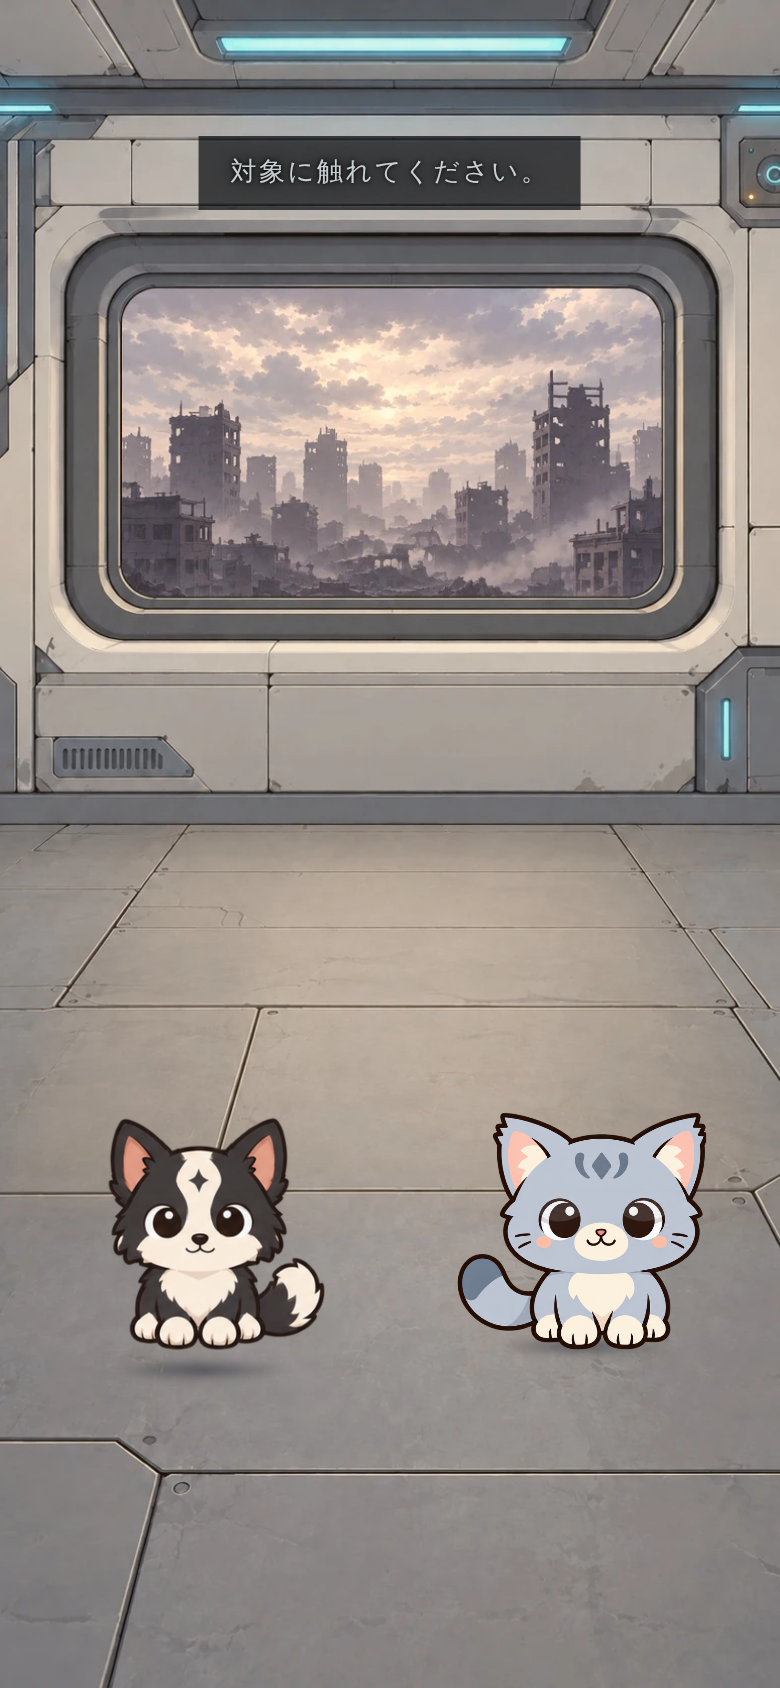
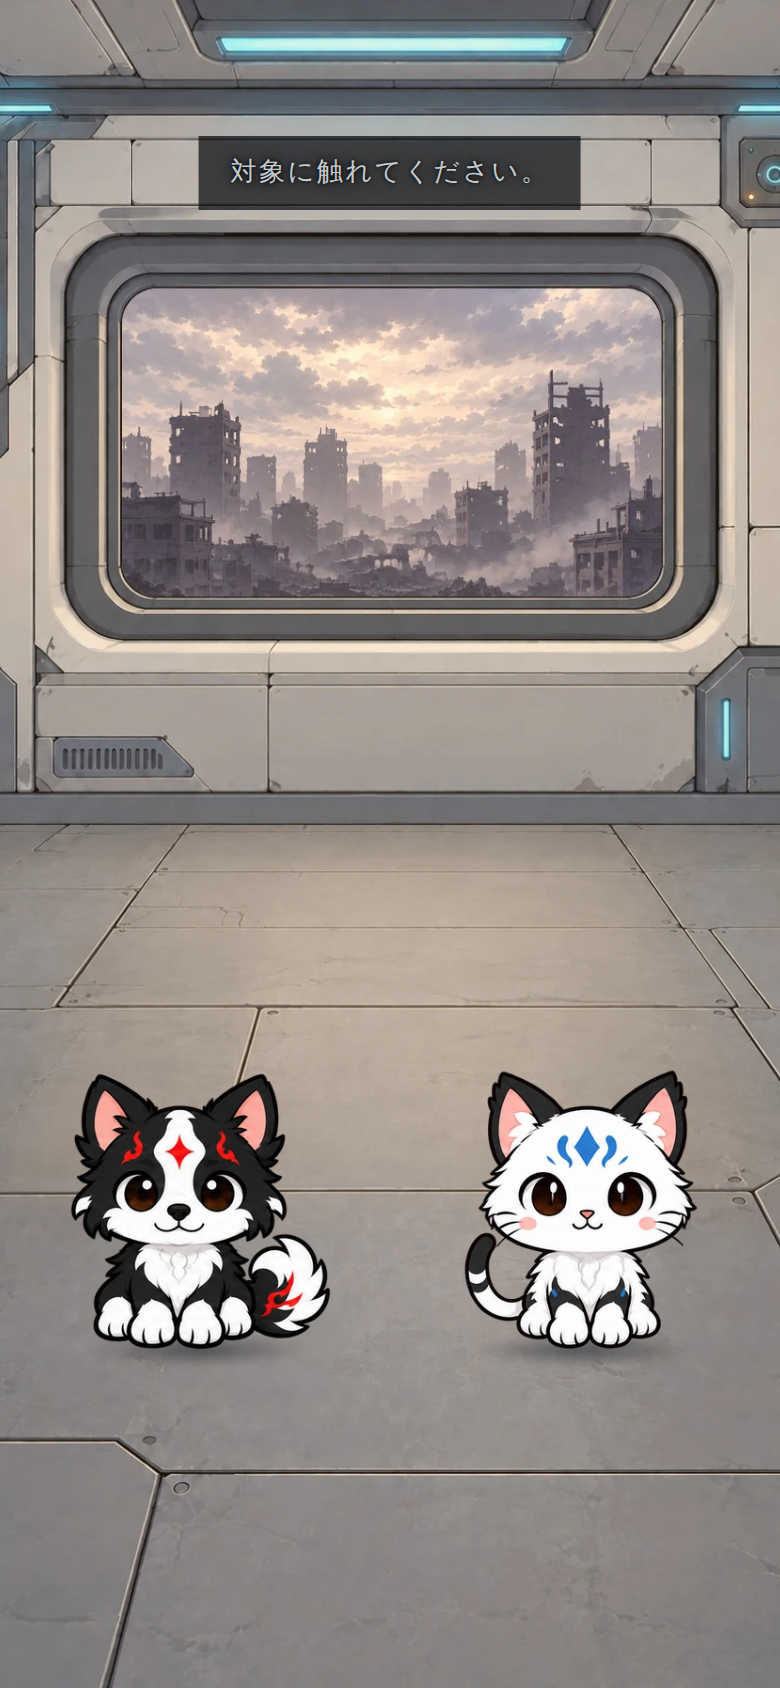
Pets v2: verify intro flow, docs, tests, precache scope
Claude-Session: https://claude.ai/code/session_01VFqs9zt8fg4yysVesTvDts

diff --git a/src/style.css b/src/style.css
@@ -818,7 +818,7 @@ label {
   position: absolute;
   left: 0;
   right: 0;
-  bottom: max(9vh, 48px);
+  bottom: max(4.5vh, 30px);
   z-index: 4;
   display: grid;
   justify-items: center;

diff --git a/CLAUDE.md b/CLAUDE.md
@@ -14,7 +14,7 @@
 | 配布 | 友人への直接配布。PWAとしてGitHub Pagesでホスティング（ストア配布なし） |
 | 対応環境 | iPhone Safari / iOS PWA（最優先）と Android Chrome。両対応コードを先に実装し、実機確認は最終段階で行う。**ユーザーの手元の実機は Android のみ（iPhone なし、2026-09-25 確認）** |
 | 時間進行 | 1日はプレイヤーの操作で進む（3行動 → 眠る）。実時間での減衰はしない。不在時は罰を与えず「犬が待っていた」演出のみ |
-| ペットの見た目 | **2D・灰青色の猫**（ユーザー提供PNG `public/assets/pet/cat/cat.png`）。丸いデフォルメ、太い暗茶の輪郭、クリームの胸と口元、額の模様。**2026-10-04 のユーザー指示で、これまでのボーダーコリー風の犬から差し替え**。配置比率は「猫の幅＝部屋の幅の約38%、足元＝部屋の高さの約77%」（ユーザーの合成図）。部屋はユーザー提供の4枚（朝・昼・夕・夜）で、最初は物を置かず、模様替えで配置していく。**2026-10-04 後続：導入でユーザーが犬か猫を選ぶ（犬の素材・リグは残して選択肢に復帰）。物語の「犬」は表示直前に種類へ置換（`src/content/species.ts`。coreは変更しない）** |
+| ペットの見た目 | **2026-10-05 最新：ユーザー提供の犬・猫（`PetGame_{Cat,Dog}_Phaser_Pack`）。黒白に赤い紋様の犬／白黒に青い紋様の猫、3段階（赤ちゃん・中間・成体）×8動作のコマ画像。導入で選ぶ。詳細は `docs/pets-v2.md`。以下は旧仕様（置き換え済み）：**2D・灰青色の猫**（ユーザー提供PNG `public/assets/pet/cat/cat.png`）。丸いデフォルメ、太い暗茶の輪郭、クリームの胸と口元、額の模様。**2026-10-04 のユーザー指示で、これまでのボーダーコリー風の犬から差し替え**。配置比率は「猫の幅＝部屋の幅の約38%、足元＝部屋の高さの約77%」（ユーザーの合成図）。部屋はユーザー提供の4枚（朝・昼・夕・夜）で、最初は物を置かず、模様替えで配置していく。**2026-10-04 後続：導入でユーザーが犬か猫を選ぶ（犬の素材・リグは残して選択肢に復帰）。物語の「犬」は表示直前に種類へ置換（`src/content/species.ts`。coreは変更しない）** |
 | 追加要素 | **子犬から成長する**（子犬→若犬→成犬）、**着せ替え**、**部屋のデコレーション**（2026-09-25 ユーザー要望）。**初期装備はなし** |
 
 ## 2. 現状：簡易版プロトタイプ `haikyu.html`
@@ -184,3 +184,4 @@ src/platform/  保存・音・入力・PWA・触覚
 - ペットを猫に・部屋を新背景に差し替え（2026-10-04）：部屋を画面いっぱいの舞台にし、猫を指定の比率で配置。猫は Phaser 3 のパーツ式（耳・しっぽはしなる Rope、目は閉じ目などのシール）。犬の素材・コードは残すが使わない。詳細・確認範囲・未対応は `docs/pet-cat.md`。UI・部屋の質感の項（2026-10-03）の自作の部屋背景は廃止した。
 - 導入・ペット選択（2026-10-04、ユーザー提供「導入・ペット選択 コンセプト仕様書」）：起動 → 壊れた音声記録（「……お願い」「この子を、生かして。」→「記録の一部を復元できませんでした。」。三つ目の言葉は出さない）→ 部屋映像の復元 → 犬と猫に触れて反応を見る → 「この子を保護しますか？」→ 暗転 → 名称登録 → DAY 01 → 最初のごはん・なでる案内。実装は `src/ui/intro.ts`・`src/platform/ambient.ts`（合成の環境音）・`src/render/pets.ts`（種類ごとの配置）。音声の収録はなく字幕と雑音のみ。タイトル画面は別途決定のため、起動前に「タップして起動」の仮画面のみ。詳細・確認範囲は `docs/intro.md`。
 - ペットの動き追加・大きさ統一（2026-10-04）：犬・猫の大きさを揃え、共通の動き（歩く・のび・ぶるぶる・くんくん）と部屋内の歩行（自動・床タップ・ごはんで中央へ）を追加。絵のタッチは元PNGのまま（描き直しなし）。詳細・確認範囲は `docs/pet-motions.md`。
+- ペットの新素材への差し替え（2026-10-05）：Phaser 3 のスプライトでコマ送り（`src/render/pet-sprite.ts`・`pets.ts`）。成長は日数で段階切替（案）。**提供素材の `cat_adult/page-0.png` が途中で切れており、8コマを復元・置換（要再アップロード）**。旧リグ・旧素材は残すが未使用。詳細・確認範囲は `docs/pets-v2.md`。
